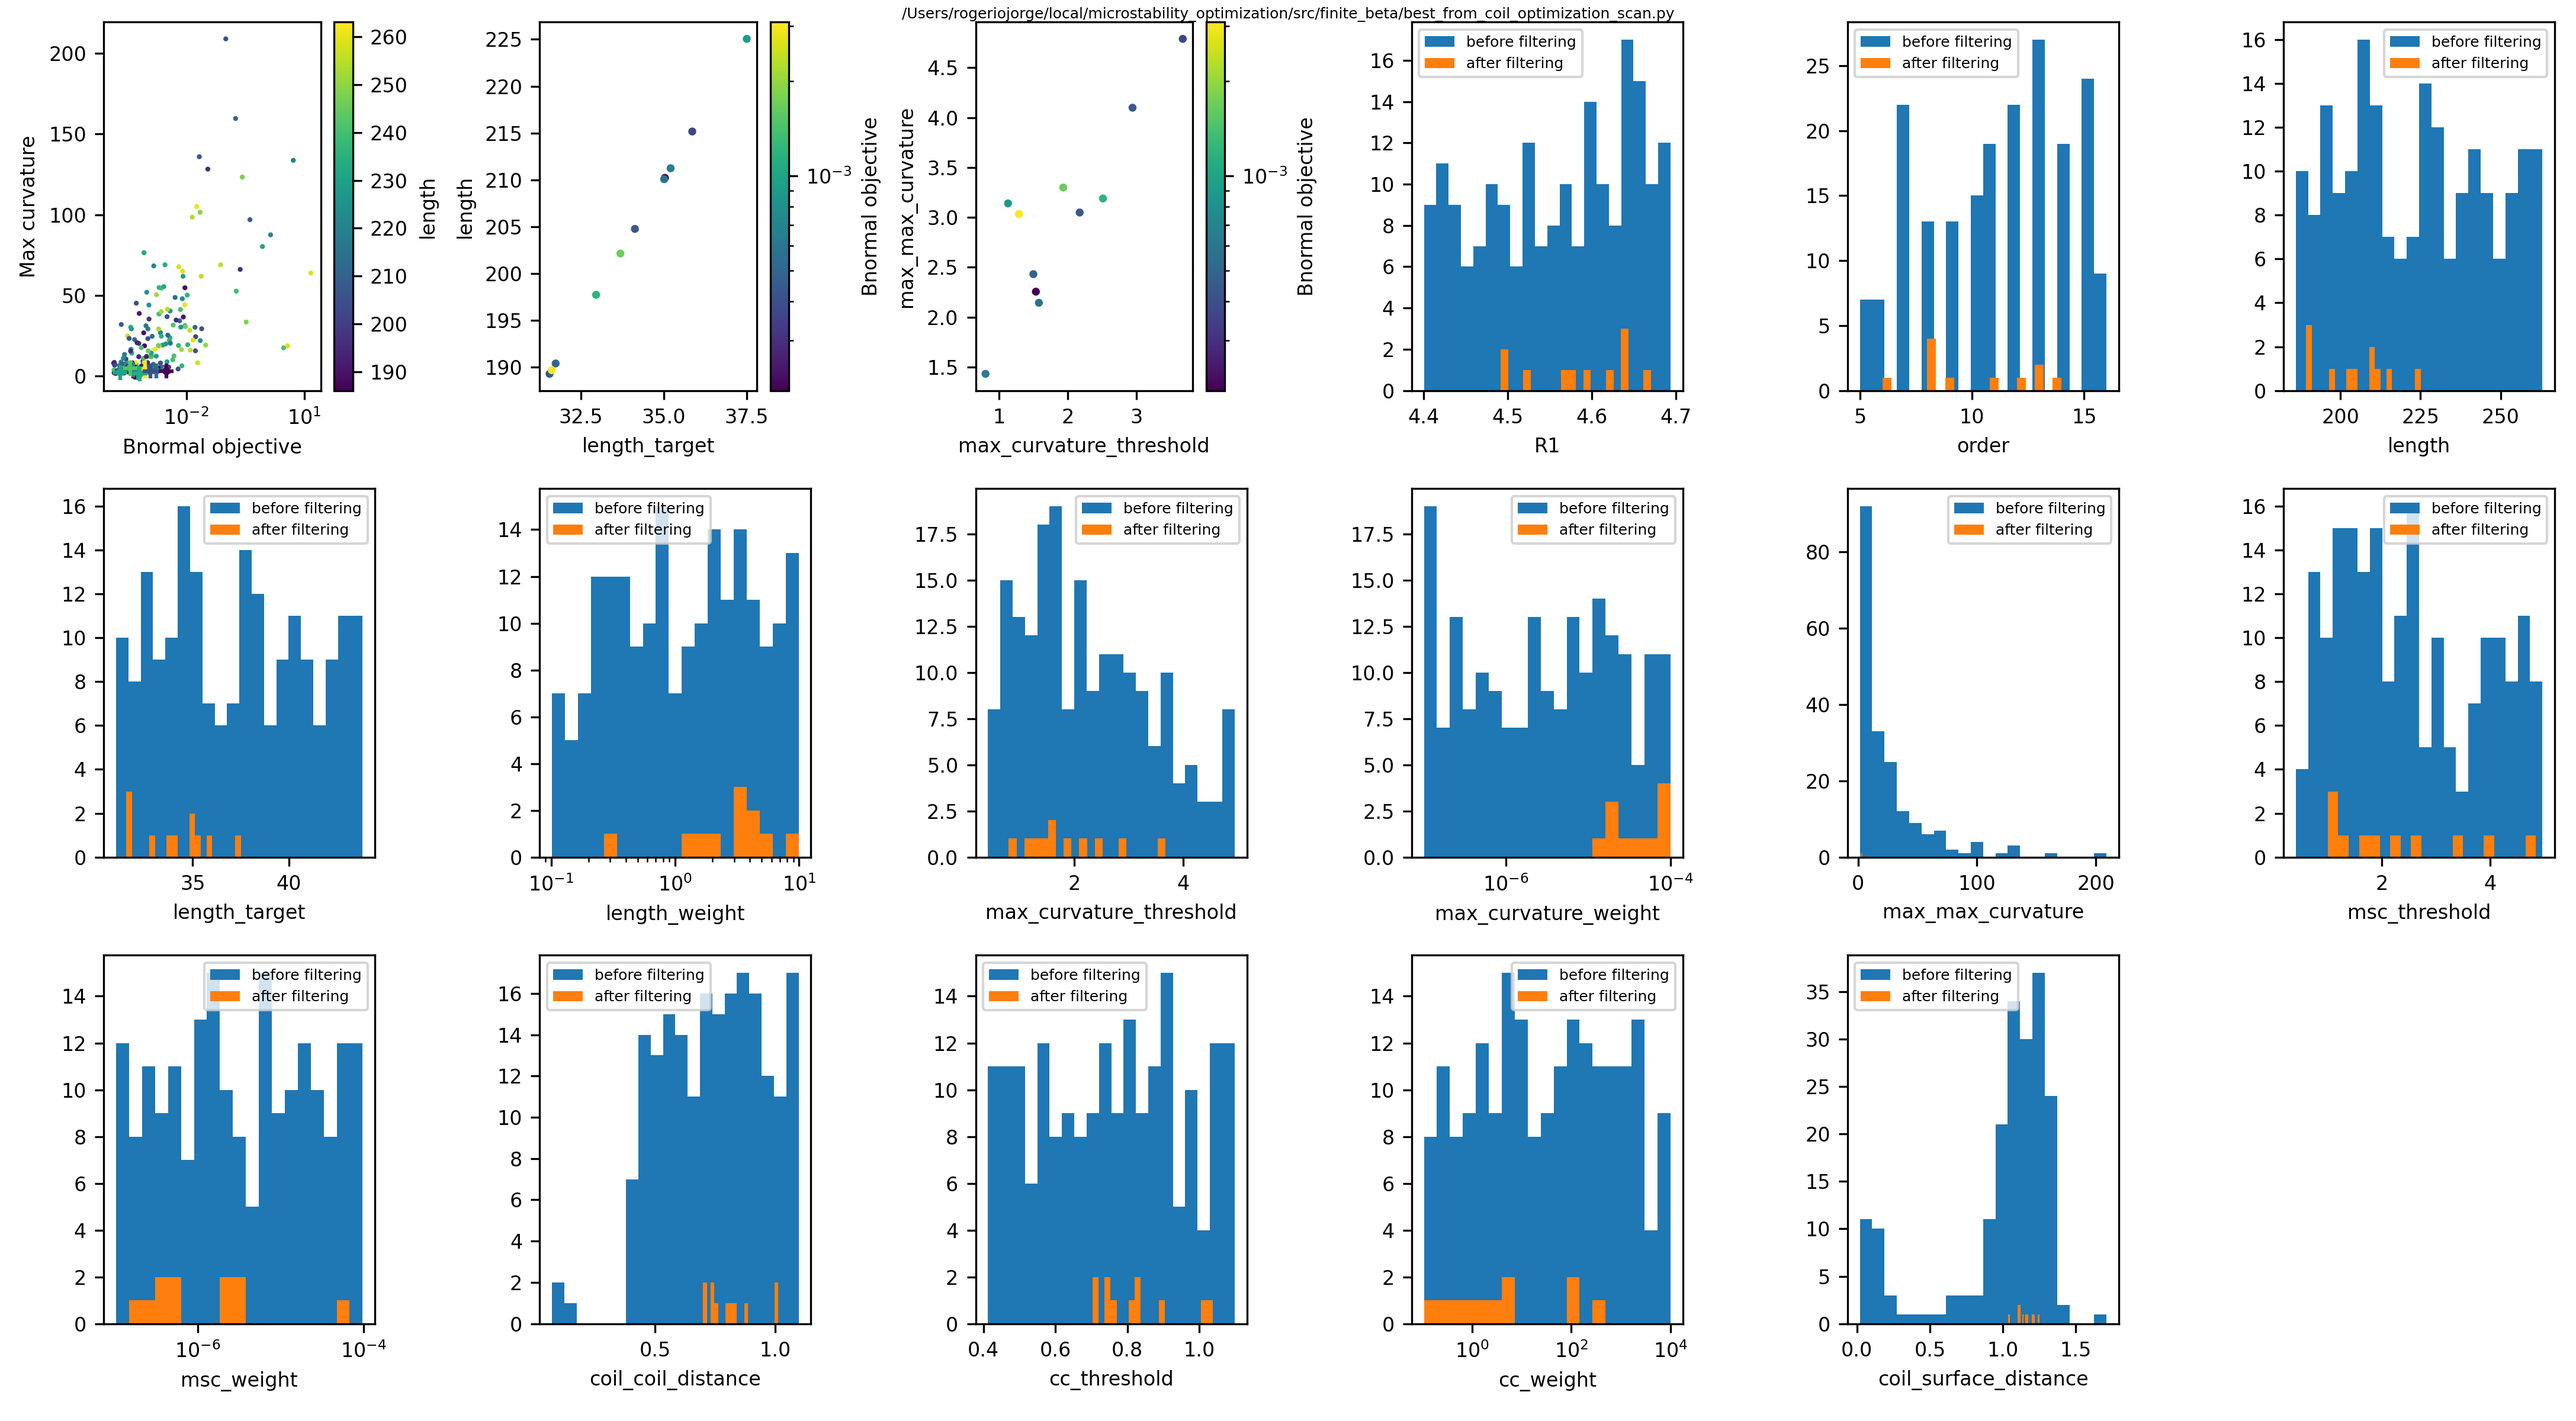
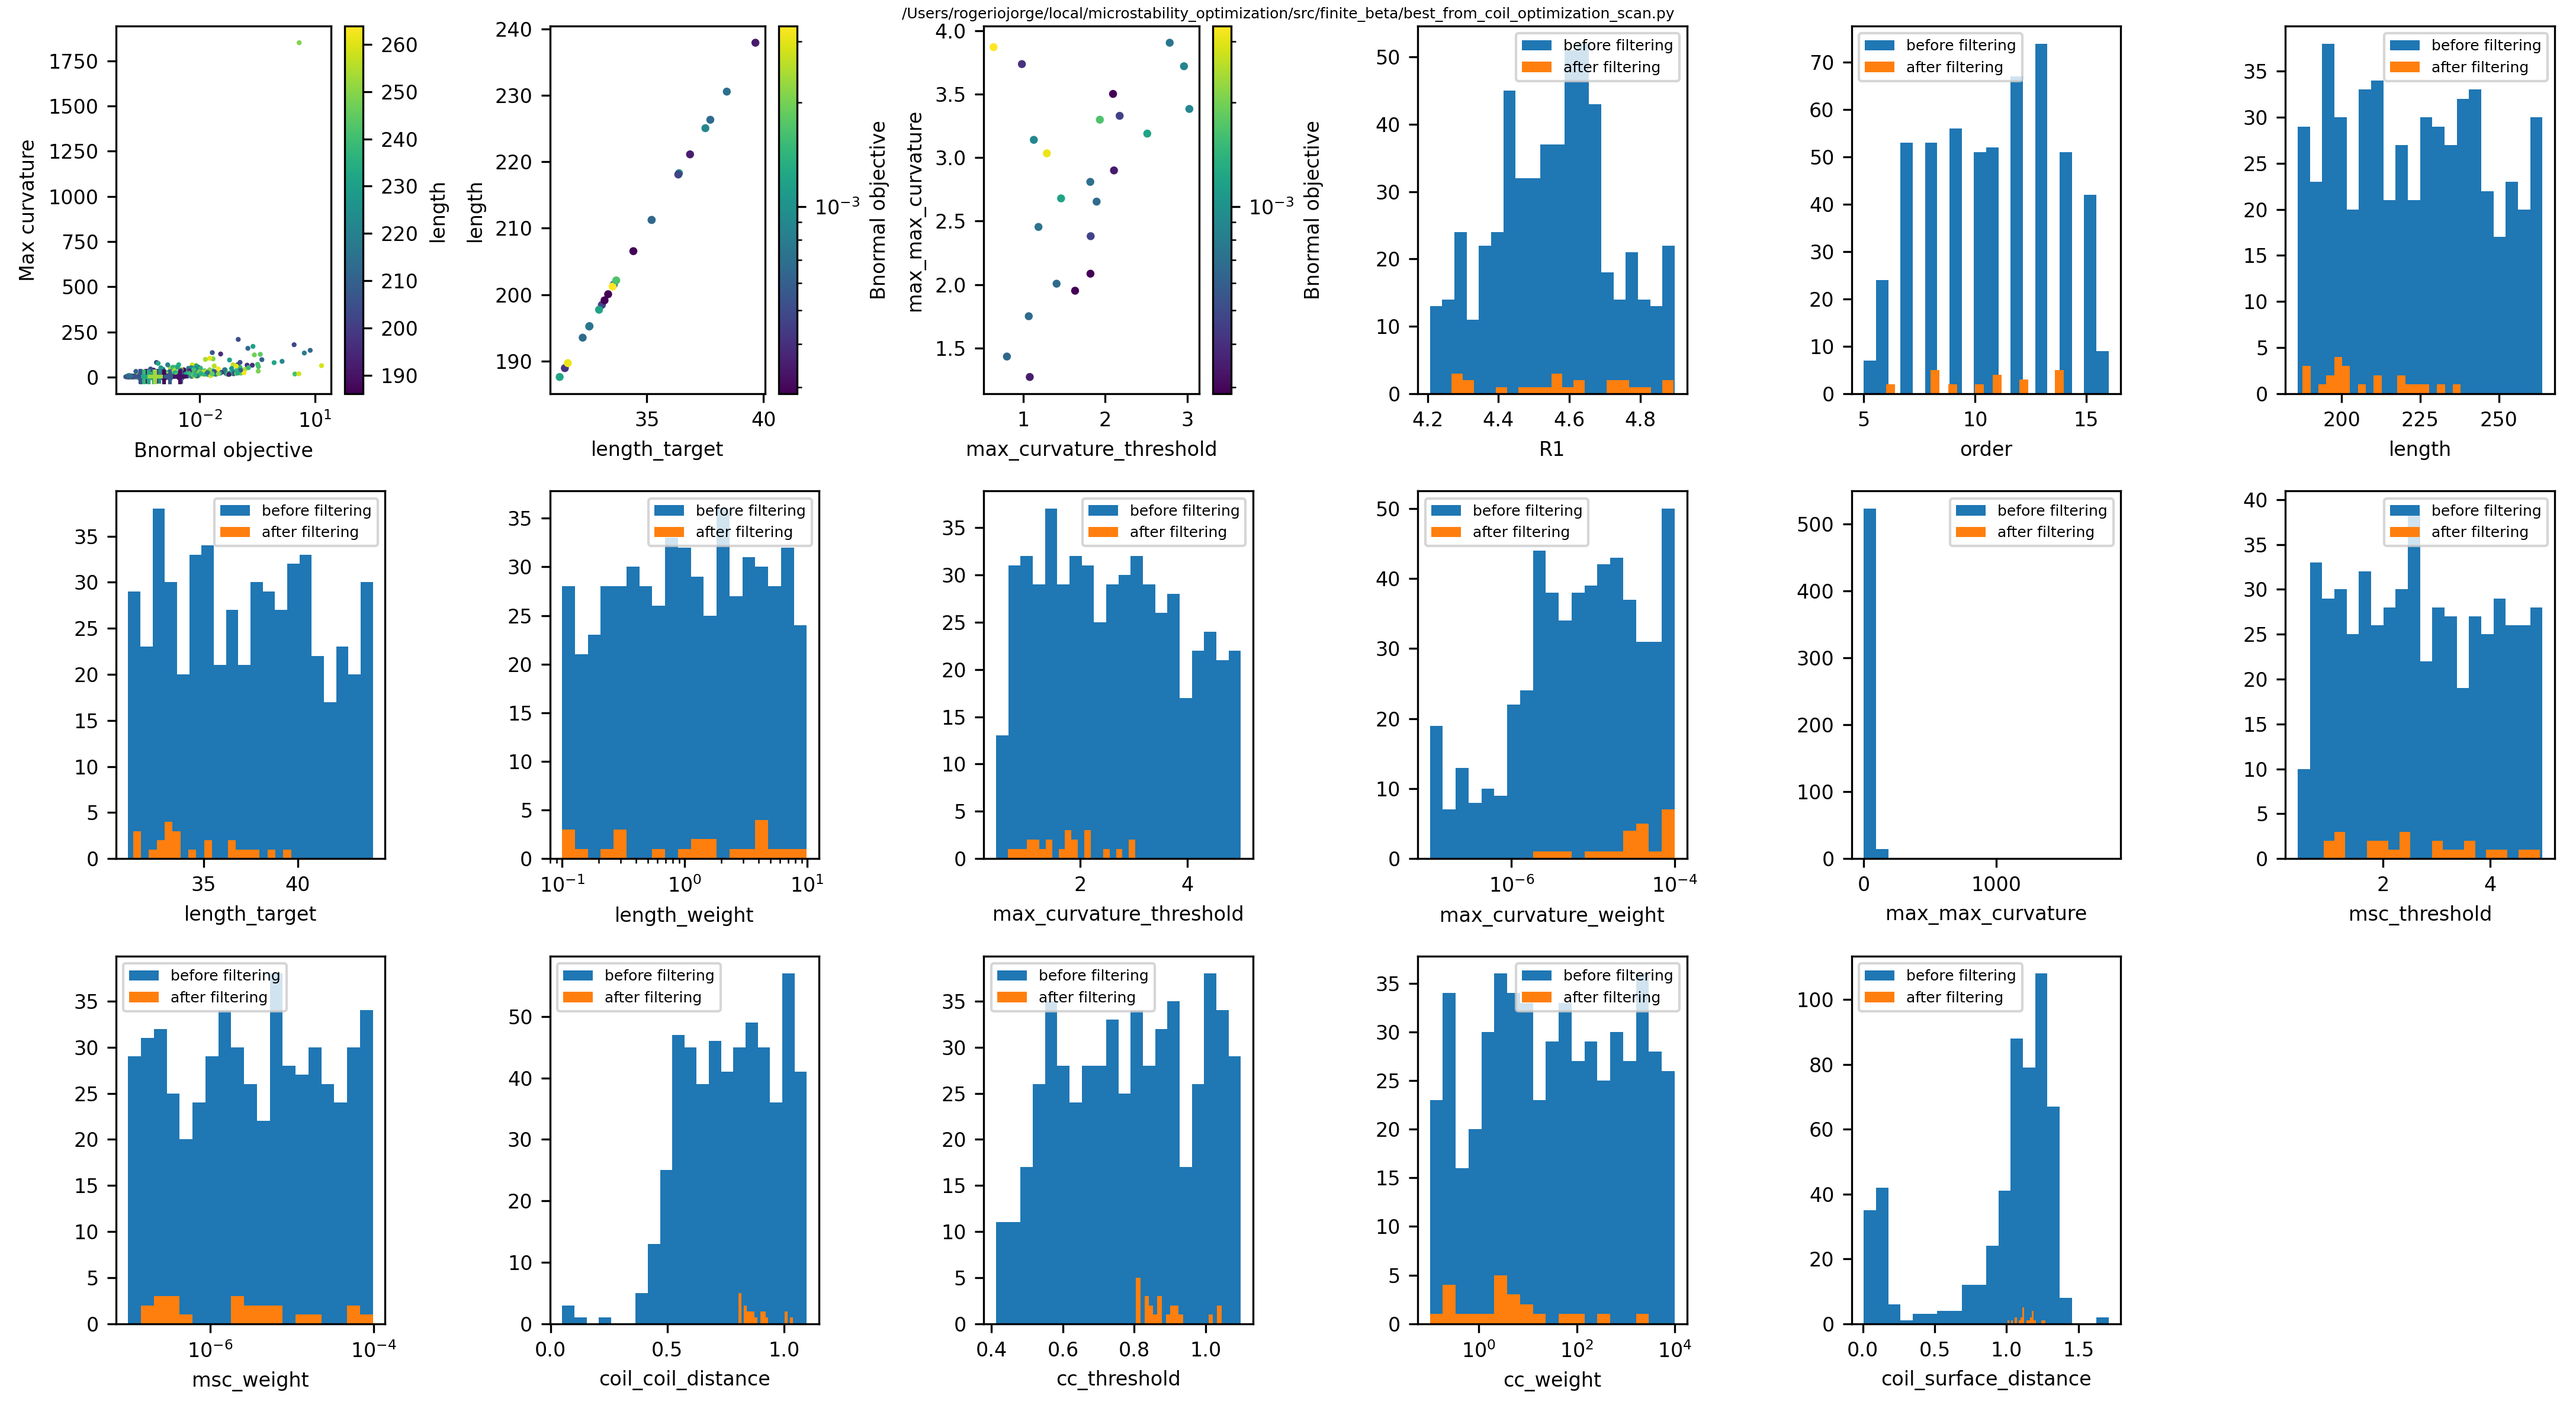
trying ncoils=5

diff --git a/src/finite_beta/best_from_coil_optimization_scan.py b/src/finite_beta/best_from_coil_optimization_scan.py
@@ -46,11 +46,11 @@ for results_file in results:
 #########################################################
 
 succeeded = df["linking_number"] < 0.1
-succeeded = np.logical_and(succeeded, df["coil_coil_distance"] > 0.7)
-succeeded = np.logical_and(succeeded, df["Jf"] < 8e-3)
-succeeded = np.logical_and(succeeded, df["max_max_curvature"] < 5)
+succeeded = np.logical_and(succeeded, df["coil_coil_distance"] > 0.8)
+succeeded = np.logical_and(succeeded, df["Jf"] < 6e-3)
+succeeded = np.logical_and(succeeded, df["max_max_curvature"] < 4)
 succeeded = np.logical_and(succeeded, df["coil_surface_distance"] > 1.0)
-succeeded = np.logical_and(succeeded, df["length"] < 240)
+succeeded = np.logical_and(succeeded, df["length"] < 250)
 
 #########################################################
 # End of filtering criteria

diff --git a/src/finite_beta/coil_optimization_scan.py b/src/finite_beta/coil_optimization_scan.py
@@ -28,17 +28,17 @@ QA_or_QH = "QH"
 beta = 2.5
 filename = 'wout_final.nc'
 results_folder = 'results'
-ncoils = 6
+ncoils = 5
 MAXITER = 700
 R1_mean = 4.2
-R1_std = 0.7
-min_length_per_coil = 31
+R1_std = 0.8
+min_length_per_coil = 30
 max_length_per_coil = 44
 min_curvature = 0.6
-max_curvature = 5
+max_curvature = 7
 CC_min = 0.5
-CC_max = 1.1
-order_min = 6
+CC_max = 1.2
+order_min = 5
 order_max = 15
 # surface and virtual casing resolution
 nphi = 32
@@ -221,7 +221,6 @@ def run_optimization(
 
     results = {
         "nfp": nfp,
-        "ncoils": ncoils,
         "R0": R0,
         "R1": R1,
         "ncoils": ncoils,
